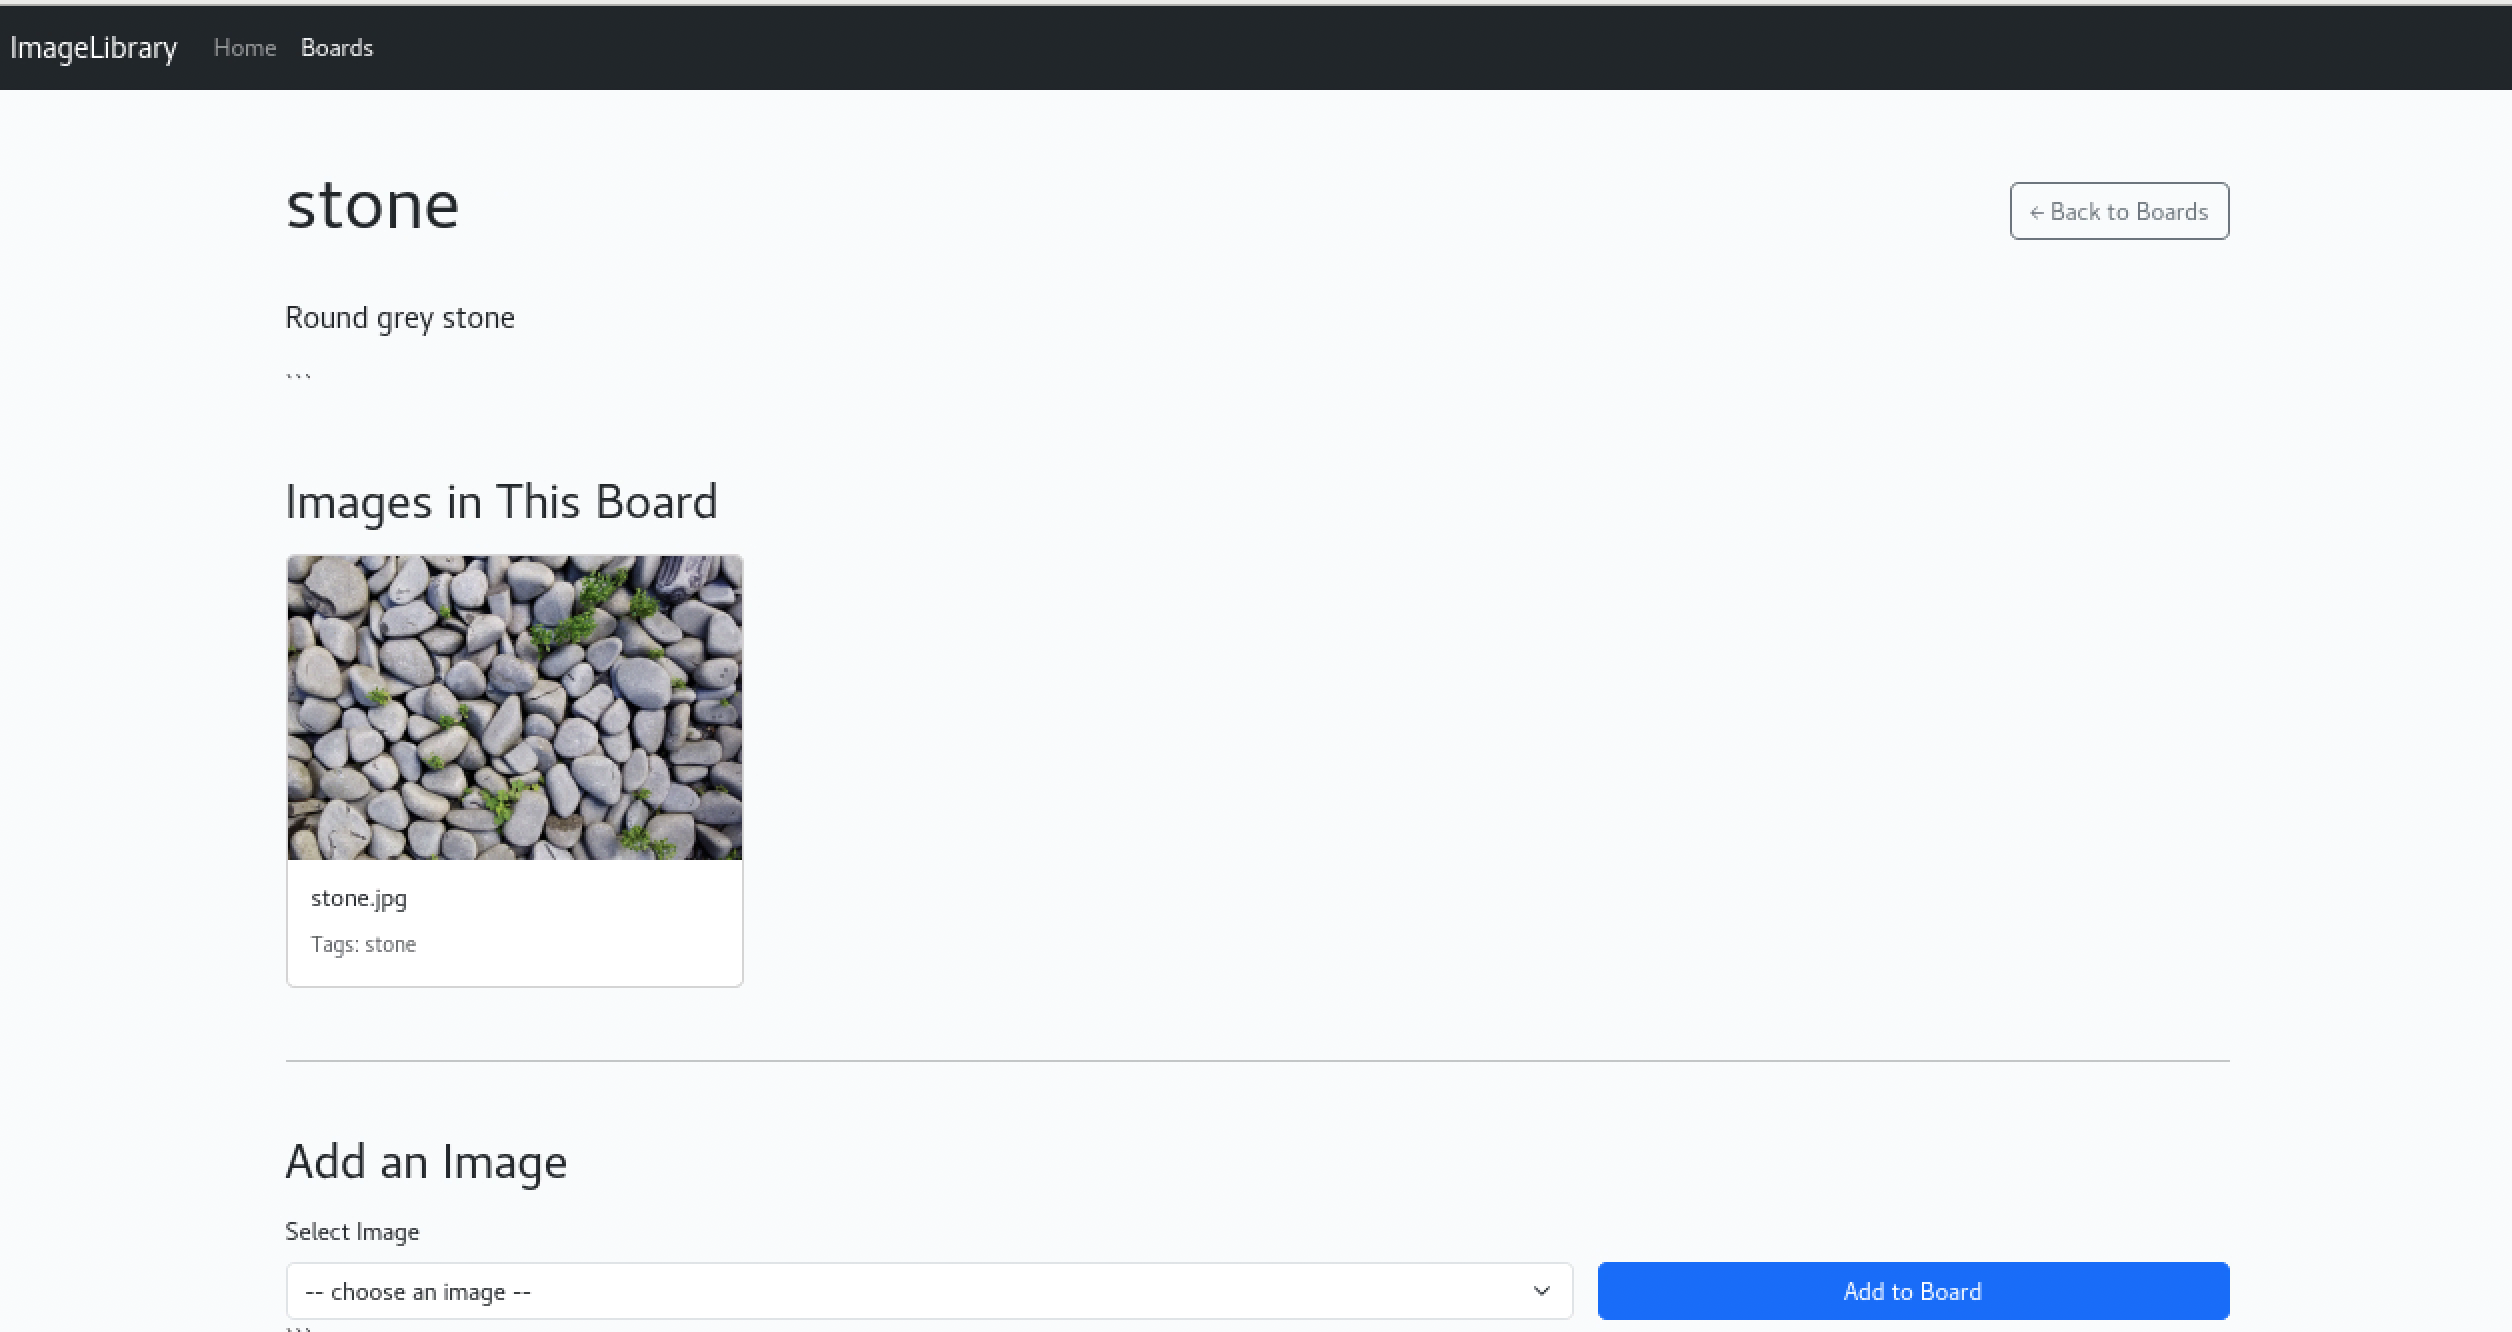
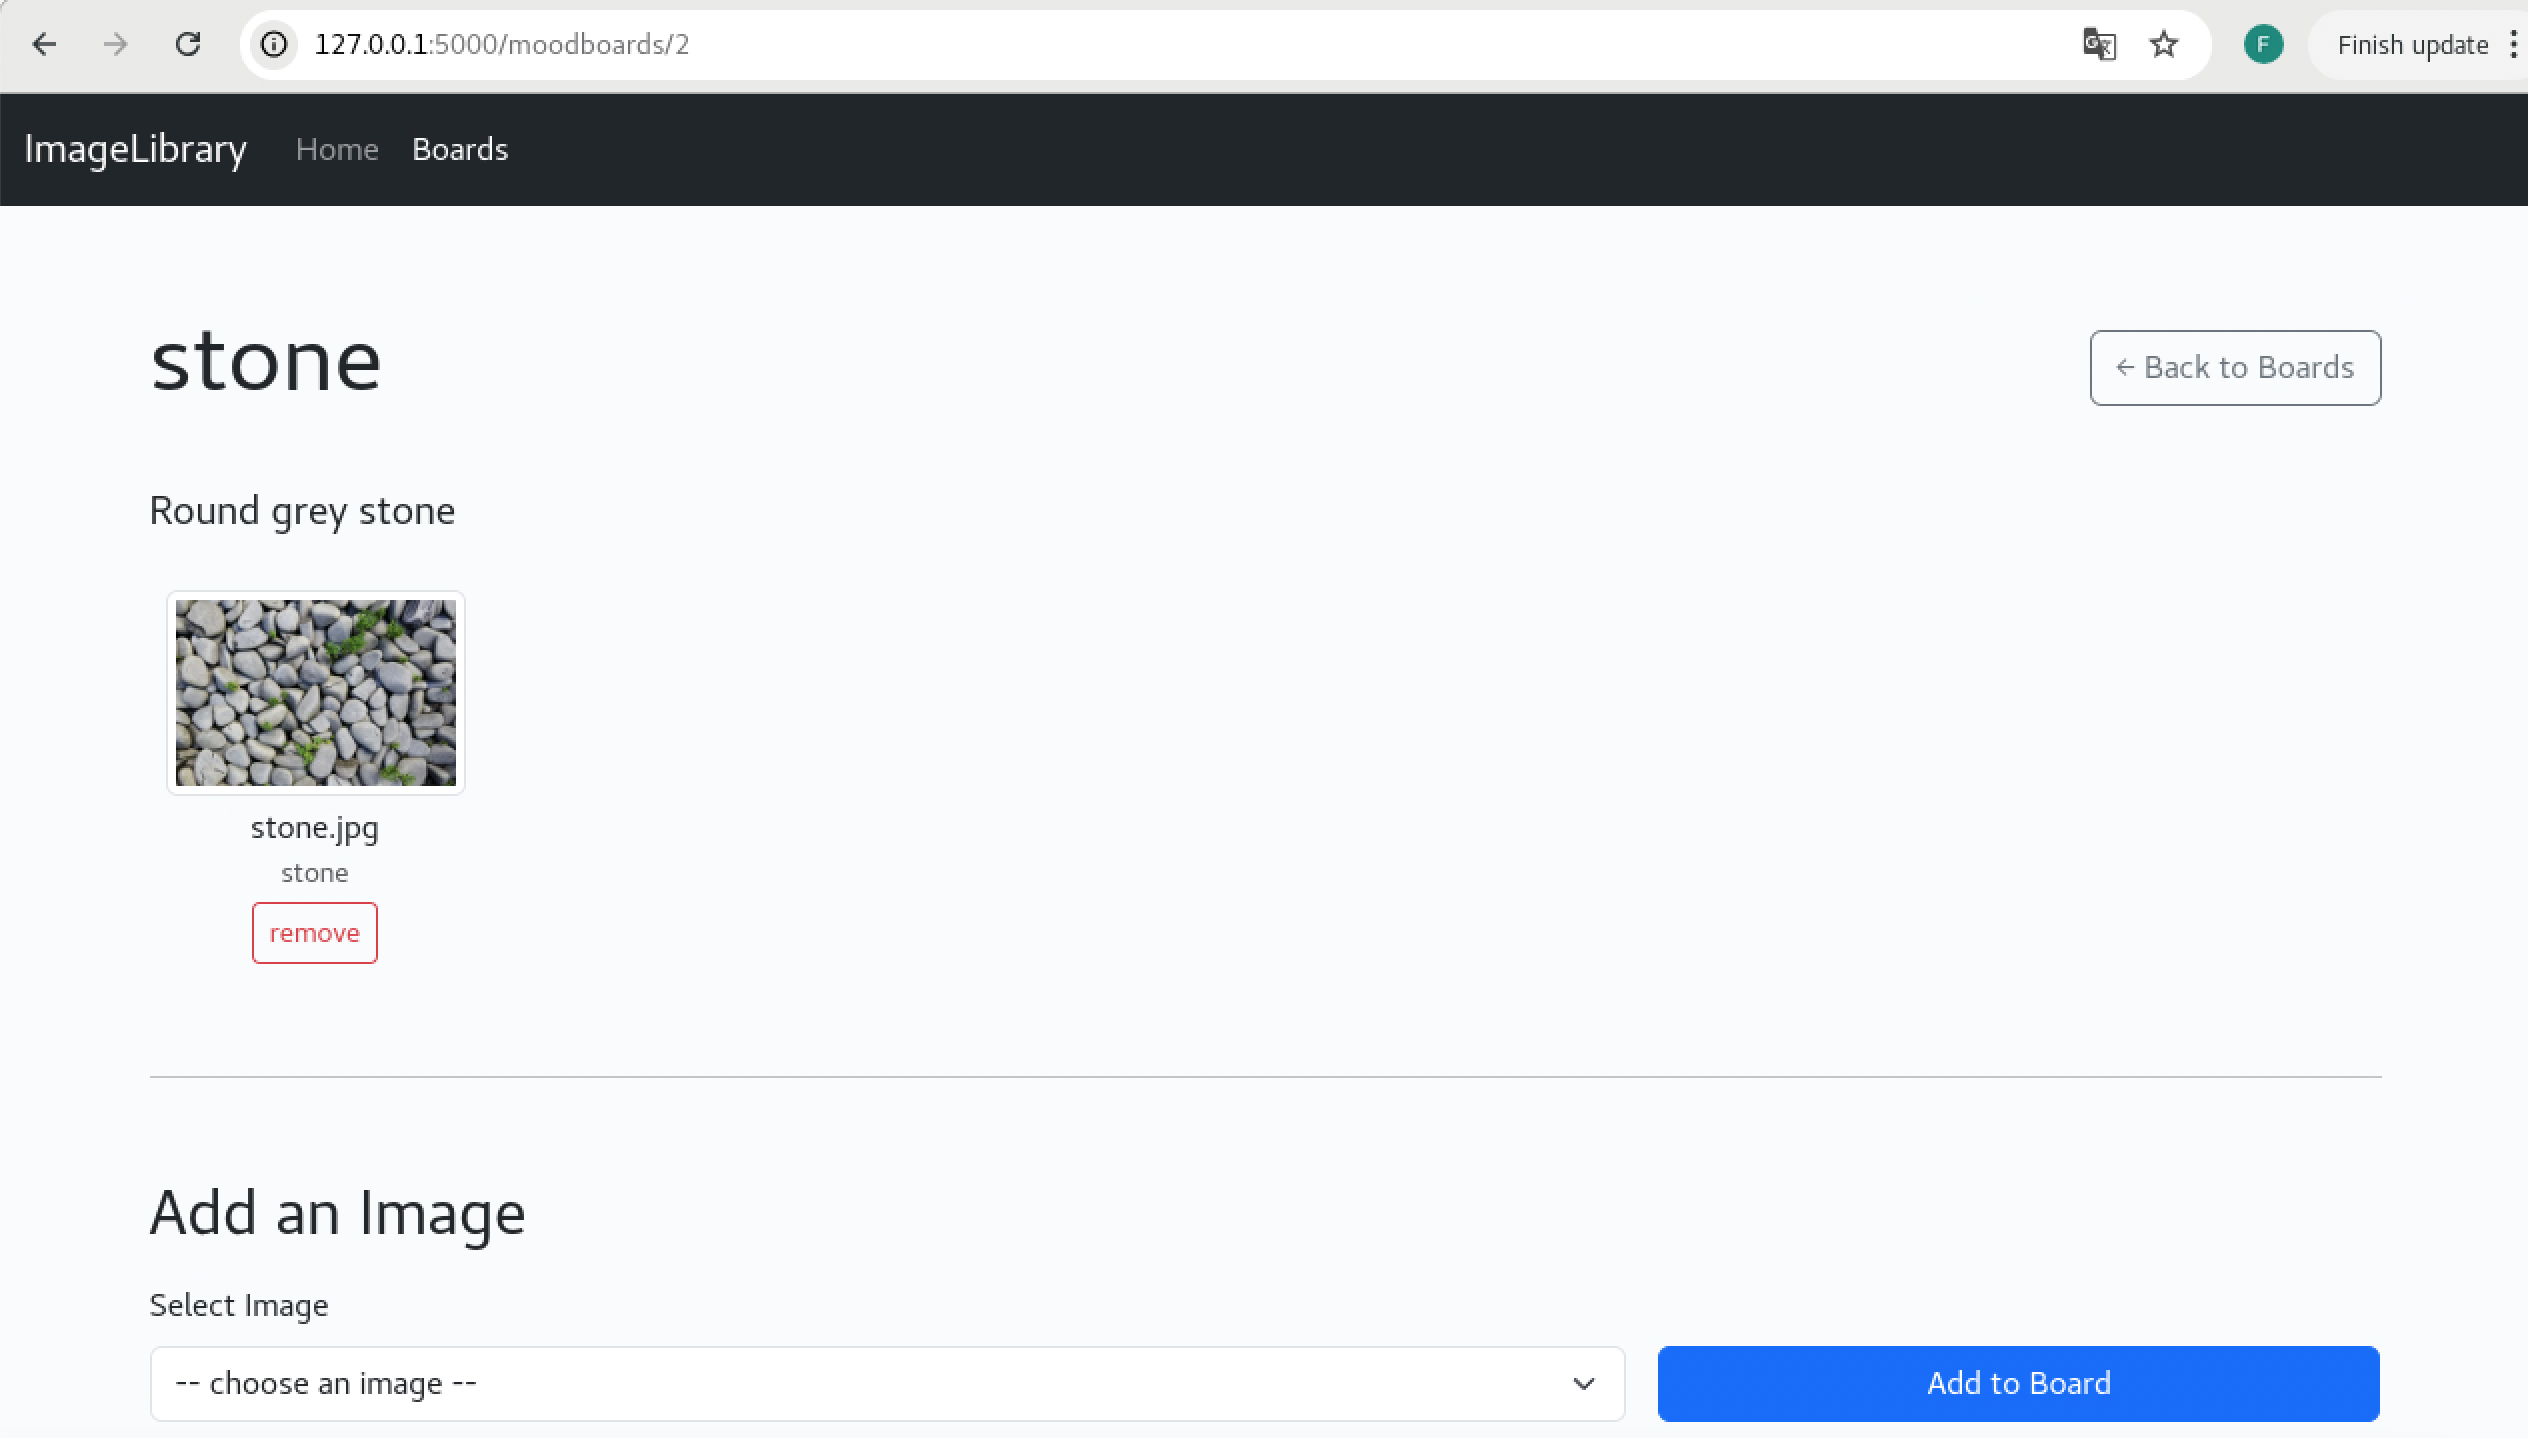
feat: enable moodboard deletion & update templates

diff --git a/templates/moodboards.html b/templates/moodboards.html
@@ -1,22 +1,73 @@
 <!DOCTYPE html>
-<html>
+<html lang="en">
 <head>
-  <meta charset="utf-8">
-  <title>All Boards – ImageLibrary</title>
+  <meta charset="utf-8" />
+  <meta name="viewport" content="width=device-width, initial-scale=1" />
+  <title>All Moodboards – ImageLibrary</title>
+  <link href="https://cdn.jsdelivr.net/npm/bootstrap@5.3.0/dist/css/bootstrap.min.css" rel="stylesheet" />
 </head>
-<body>
-  <h1>All Boards</h1>
-  <a href="{{ url_for('create_moodboard') }}">＋ Create New Board</a>
-  <ul>
-    {% for mb in moodboards %}
-      <li>
-        <a href="{{ url_for('moodboard_detail', mid=mb['id']) }}">
-          {{ mb['name'] }}
-        </a>
-        – {{ mb['description'] }}
-      </li>
-    {% endfor %}
-  </ul>
-  <p><a href="{{ url_for('index') }}">← Back to Home</a></p>
+<body class="bg-light">
+
+  <!-- Navbar -->
+  <nav class="navbar navbar-expand-lg navbar-light bg-white shadow-sm">
+    <div class="container-fluid">
+      <a class="navbar-brand" href="{{ url_for('index') }}">ImageLibrary</a>
+    </div>
+  </nav>
+
+  <div class="container my-5">
+
+    <!-- Flash -->
+    {% with messages = get_flashed_messages() %}
+      {% if messages %}
+        <div class="alert alert-info">
+          {% for m in messages %}{{ m }}<br>{% endfor %}
+        </div>
+      {% endif %}
+    {% endwith %}
+
+    <div class="d-flex justify-content-between align-items-center mb-4">
+      <h1 class="h3">All Moodboards</h1>
+      <a href="{{ url_for('create_moodboard') }}" class="btn btn-primary">＋ Create New Board</a>
+    </div>
+
+    {% if moodboards %}
+      <div class="row row-cols-1 row-cols-md-2 g-4">
+        {% for mb in moodboards %}
+          <div class="col">
+            <div class="card shadow-sm h-100">
+              <div class="card-body d-flex justify-content-between align-items-center">
+                <div>
+                  <h5 class="card-title mb-1">
+                    <a href="{{ url_for('moodboard_detail', mid=mb.id) }}" class="text-decoration-none">
+                      {{ mb.name }}
+                    </a>
+                  </h5>
+                  <p class="card-text text-muted mb-0">{{ mb.description or '— no description —' }}</p>
+                </div>
+
+                <!-- Delete button -->
+                <form method="POST"
+                      action="{{ url_for('delete_moodboard', mid=mb.id) }}"
+                      onsubmit="return confirm('Delete board “{{ mb.name }}”?');">
+                  <button type="submit" class="btn btn-sm btn-outline-danger">Delete</button>
+                </form>
+              </div>
+            </div>
+          </div>
+        {% endfor %}
+      </div>
+    {% else %}
+      <div class="alert alert-secondary">
+        No moodboards yet. <a href="{{ url_for('create_moodboard') }}">Create one</a>!
+      </div>
+    {% endif %}
+
+    <p class="mt-5">
+      <a href="{{ url_for('index') }}" class="btn btn-link">&larr; Back to Home</a>
+    </p>
+  </div>
+
+  <script src="https://cdn.jsdelivr.net/npm/bootstrap@5.3.0/dist/js/bootstrap.bundle.min.js"></script>
 </body>
 </html>

diff --git a/templates/moodboard_detail.html b/templates/moodboard_detail.html
@@ -44,26 +44,24 @@
     <p class="lead">{{ moodboard['description'] }}</p>
     {% endif %}
 
-```
-<h2 class="mt-5 mb-3">Images in This Board</h2>
-<div class="row g-4">
-  {% if mb_images %}
-    {% for img in mb_images %}
-    <div class="col-6 col-md-4 col-lg-3">
-      <div class="card card-hover h-100">
-        <img src="{{ url_for('static', filename='uploads/' ~ img['filename']) }}"
-             class="card-img-top" alt="{{ img['filename'] }}">
-        <div class="card-body">
-          <h6 class="card-title text-truncate" title="{{ img['filename'] }}">{{ img['filename'] }}</h6>
-          <p class="card-text"><small class="text-muted">Tags: {{ img['tags'] }}</small></p>
-        </div>
-      </div>
+  {% for img in mb_images %}
+    <div class="d-inline-block m-2 text-center">
+      <img src="{{ url_for('static', filename='uploads/' ~ img['filename']) }}"
+           class="img-thumbnail" style="max-width:150px" alt="{{ img['filename'] }}">
+      <div class="mt-1">{{ img['filename'] }}</div>
+      <div class="text-muted small">{{ img['tags'] }}</div>
+      <!-- removebutton -->
+      <form method="POST"
+            action="{{ url_for('remove_image_from_moodboard', mid=moodboard['id']) }}"
+            onsubmit="return confirm('Are you sure you want to remove this picture?');"
+            class="mt-1">
+        <input type="hidden" name="image_id" value="{{ img['id'] }}">
+        <button type="submit" class="btn btn-sm btn-outline-danger">remove</button>
+      </form>
     </div>
-    {% endfor %}
   {% else %}
-    <p class="text-muted">No images added yet.</p>
-  {% endif %}
-</div>
+    <p>(There are no pictures on the board for the time being)</p>
+{% endfor %}  
 
 <hr class="my-5" />
 <h2 class="mb-3">Add an Image</h2>
@@ -81,7 +79,7 @@
     <button type="submit" class="btn btn-primary w-100">Add to Board</button>
   </div>
 </form>
-```
+
 
   </div>
 

diff --git a/app.py b/app.py
@@ -80,24 +80,22 @@ def create_app(test_config=None):
 
     @app.route('/', methods=['GET', 'POST'])
     def index():
+        """Handle image uploads (single or bulk), then show paginated gallery with search & sort."""
         db = get_db()
 
         if request.method == 'POST':
             tags = request.form.get('tags', '')
 
-            # 1) Bulk upload first
+            # Bulk-upload from 'images'
             if 'images' in request.files:
                 files = request.files.getlist('images')
-                # No filenames at all?
                 if not any(f.filename for f in files):
                     flash('No selected file')
                     return redirect(request.url)
-                # Any invalid extension?
                 for f in files:
                     if f and f.filename and not allowed_file(f.filename):
                         flash('Invalid file type')
                         return redirect(request.url)
-                # save them
                 for f in files:
                     fn = secure_filename(f.filename)
                     f.save(os.path.join(app.config['UPLOAD_FOLDER'], fn))
@@ -108,7 +106,7 @@ def create_app(test_config=None):
                 db.commit()
                 return redirect(url_for('index'))
 
-            # 2) Fallback to single-file upload
+            # Fallback to single-file upload from 'image'
             if 'image' not in request.files:
                 flash('No file part')
                 return redirect(request.url)
@@ -119,7 +117,6 @@ def create_app(test_config=None):
             if not allowed_file(file.filename):
                 flash('Invalid file type')
                 return redirect(request.url)
-
             fn = secure_filename(file.filename)
             file.save(os.path.join(app.config['UPLOAD_FOLDER'], fn))
             db.execute(
@@ -213,6 +210,17 @@ def create_app(test_config=None):
             db.commit()
             return redirect(url_for('moodboard_detail', mid=cur.lastrowid))
         return render_template('create_moodboard.html')
+    
+    @app.route('/moodboards/<int:mid>/delete', methods=['POST'])
+    def delete_moodboard(mid):
+        """Delete a moodboard and its associations, then redirect to list."""
+        db = get_db()
+        db.execute('DELETE FROM moodboard_images WHERE moodboard_id=?', (mid,))
+        db.execute('DELETE FROM moodboards WHERE id = ?', (mid,))
+        db.commit()
+        flash('Moodboard deleted.')
+        return redirect(url_for('list_moodboards'))
+
 
     @app.route('/moodboards/<int:mid>', methods=['GET', 'POST'])
     def moodboard_detail(mid):
@@ -246,7 +254,20 @@ def create_app(test_config=None):
             mb_images=mb_imgs
         )
 
+    @app.route('/moodboards/<int:mid>/remove', methods=['POST'])
+    def remove_image_from_moodboard(mid):
+        """Remove an image from a moodboard."""
+        db = get_db()
+        img_id = int(request.form['image_id'])
+        db.execute(
+            'DELETE FROM moodboard_images WHERE moodboard_id = ? AND image_id = ?',
+            (mid, img_id)
+        )
+        db.commit()
+        return redirect(url_for('moodboard_detail', mid=mid))
+
     return app
+
 
 if __name__ == '__main__':
     app = create_app()
